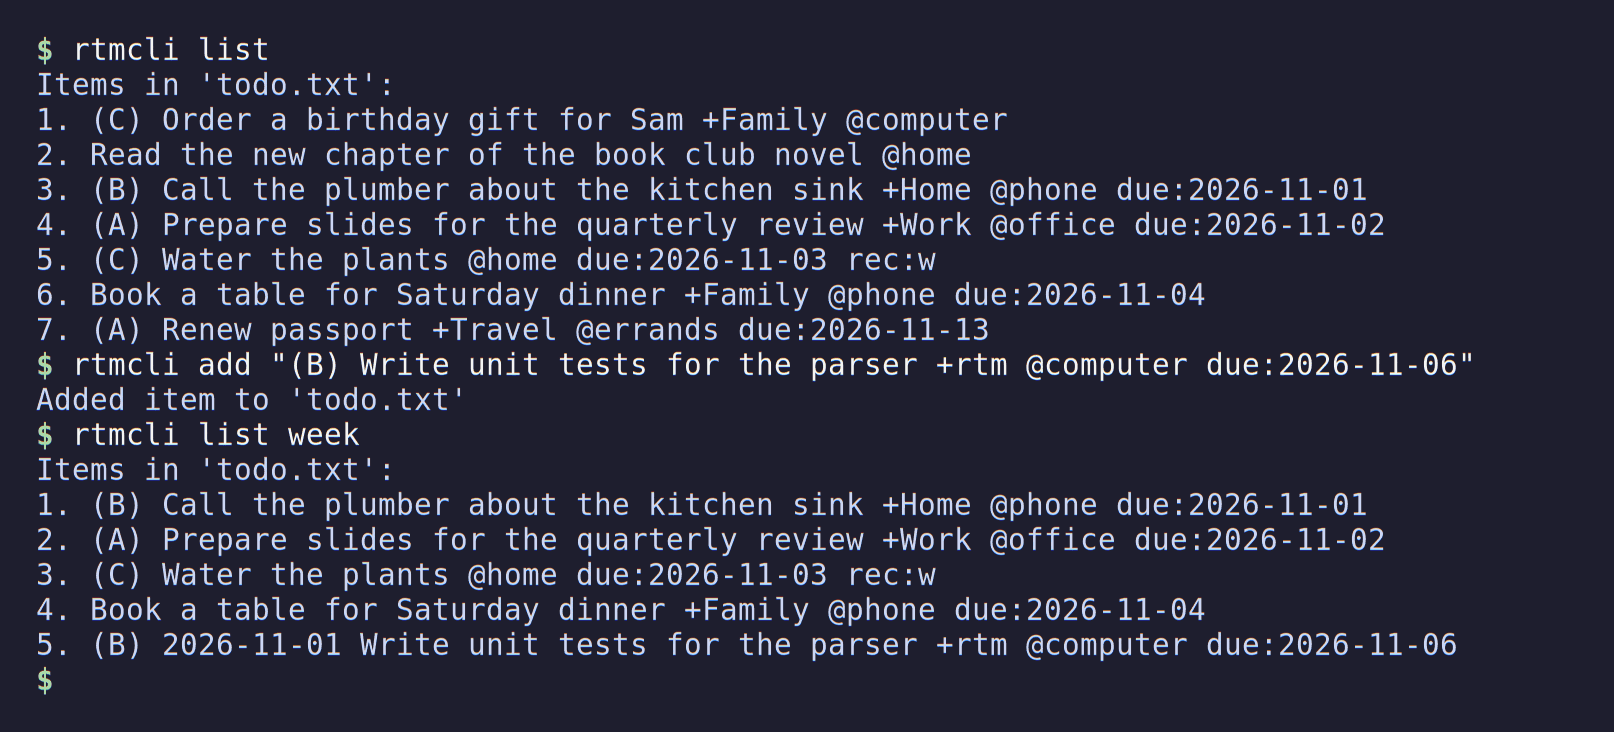
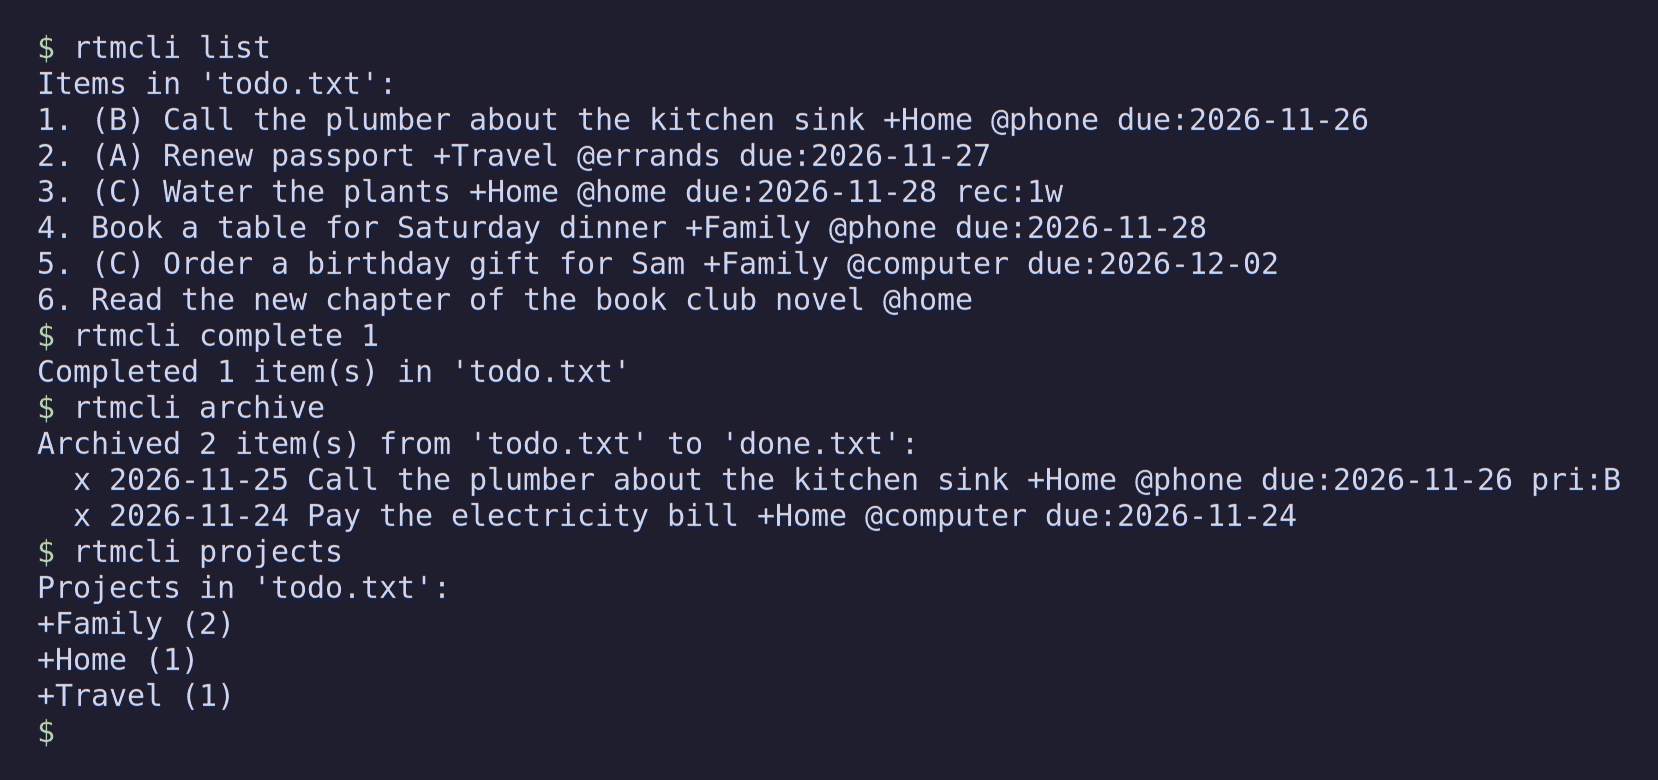
docs(site): website post for 26.3.0 -- RTM-176 (#242)
The website post for 26.3.0, whose merge publishes the announcement on X, and new screenshots of rtmapp and rtmcli for the website and the README.

Commits:

* docs(site): update the app screenshots for 26.3.0 -- RTM-176

  The rtmapp screenshots showed the app before tabs, the project and
  context sidebar, archiving and whole-line editing. New light and dark
  ones from the 26.3.0 build on sample data (the dark one with the edit
  dialog open), and a new rtmcli one rendered from real output as before,
  showing archiving; the page's size for it follows.

* docs(site): website post for 26.3.0 -- RTM-176

  The 26.3.0 post with the release's changelog section, its description
  and the X text the Announce workflow posts after the merge; the download
  links and releases.json follow it.

Changed region(s): [[0.0, 0.0301, 0.9913, 0.9617]]

diff --git a/site/templates/index.html b/site/templates/index.html
@@ -29,17 +29,17 @@
 <section class="screenshots" aria-label="Screenshots">
   <figure>
     <img src="{{ get_url(path='screenshot_gui.png') }}" width="900" height="650"
-         alt="The rtm desktop app in the light theme, showing a list of tasks with priorities and due dates">
+         alt="The rtm desktop app in the light theme, showing two todo.txt files in tabs, the projects and contexts sidebar, and a list of tasks with priorities and due dates">
     <figcaption>Desktop app, light theme</figcaption>
   </figure>
   <figure>
     <img src="{{ get_url(path='screenshot_gui_dark.png') }}" width="900" height="650"
-         alt="The rtm desktop app in the dark theme">
-    <figcaption>Desktop app, dark theme</figcaption>
+         alt="The rtm desktop app in the dark theme, editing a task's whole todo.txt line in the edit dialog">
+    <figcaption>Desktop app, dark theme: editing an item</figcaption>
   </figure>
   <figure class="wide">
-    <img src="{{ get_url(path='screenshot_cli.png') }}" width="807" height="366" loading="lazy"
-         alt="rtmcli listing tasks in a terminal">
+    <img src="{{ get_url(path='screenshot_cli.png') }}" width="829" height="390" loading="lazy"
+         alt="rtmcli listing, completing and archiving tasks in a terminal">
     <figcaption>Command line</figcaption>
   </figure>
 </section>

diff --git a/site/static/style.css b/site/static/style.css
@@ -147,7 +147,7 @@ main > section, main > article {
   grid-template-columns: repeat(2, minmax(0, 1fr));
   gap: 1.5rem;
 }
-.screenshots .wide { grid-column: 1 / -1; max-width: 807px; justify-self: center; }
+.screenshots .wide { grid-column: 1 / -1; max-width: 829px; justify-self: center; }
 .screenshots figure { margin: 0; }
 .screenshots img {
   display: block;

diff --git a/site/content/news/26.3.0.md b/site/content/news/26.3.0.md
@@ -1,0 +1,131 @@
++++
+title = "rtm 26.3.0"
+date = 2026-11-25T22:13:19Z
+description = "A minor release: archive done items, edit an item's whole todo.txt line in the desktop app, and saves that keep your files intact, plus every fix of 26.2.1."
+
+[extra.announce]
+x = "rtm 26.3.0 is out: archive done items from the desktop app, the command line or an AI assistant, edit an item's whole todo.txt line in the desktop app, and saves that never leave a file empty after a crash or a full disk."
++++
+
+rtm 26.3.0 archives done items, lets you edit an item's whole todo.txt line in the desktop app,
+and keeps your files safe when a save goes wrong. It also includes every fix of 26.2.1.
+
+- **Archive.** Done items move to the file's archive, `done.txt` next to `todo.txt` (or
+  `work.done.txt` next to `work.txt`): from the desktop app's menu or automatically once they
+  are a set number of days old, with `rtmcli archive`, or from an AI assistant through the MCP
+  server. In a synced folder, the todo file and its archive are committed together.
+- **Whole-line editing.** The desktop app's edit dialog holds the item's whole line, kept in step
+  with the priority, date, recurrence, project and context fields, so a `+project` or `@context`
+  can be typed anywhere in it. The list shows each line as written, with projects and contexts in
+  place. Done items open read-only.
+- **Desktop app.** Links in an item's text open in the browser, the start page offers New File
+  and Load File while no file is open, and the sidebar lists only the projects and contexts that
+  have active items. A click on one of two identical lines acts on that line, a failed save keeps
+  your changes, and a config file that cannot be read is never overwritten.
+- **Safer files.** The todo file and the app's config are replaced in one step, so a crash or a
+  full disk never leaves them empty. `rtmcli add` refuses a todo file it cannot read and text
+  with a line break. A symlinked todo file is refused, naming the file to open instead. Checking
+  a Pijul repository no longer adds an untracked todo file to it.
+- **Development.** CI caches the Rust and Nix builds, and the release tags are protected.
+
+<!-- The 26.3.0 section of CHANGELOG.md on releases/v26.3 (headings one level up). -->
+
+## Changes
+
+### Features
+
+- rtmapp: open links in item text -- RTM-193 (#131)
+- rtmapp: New File and Load File buttons on the empty page -- RTM-179 (#137)
+- todotxt: refuse an item whose threshold date is after its due date -- RTM-214 (#181)
+- todotxt: archive done items to the file's archive -- RTM-13 (#184)
+- rtmsync: commit several files in one commit -- RTM-228 (#186)
+- workspace: refuse symlinked todo files -- RTM-231 (#189)
+- rtmcli: archive done items to the file's archive -- RTM-25 (#191)
+- rtmapp: archive done items, automatically or from the menu -- RTM-22 (#193)
+- rtmcli: name an archived item by its description in the commit message -- RTM-232 (#194)
+- rtmmcp: archive done items from an MCP client -- RTM-229 (#199)
+- rtmmcp: check the Claude Code and Grok logins before the MCP eval -- RTM-235 (#202)
+- rtmapp: edit the whole todo.txt line and list items as written -- RTM-261 (#230)
+- rtmapp: hide projects and contexts without active items -- RTM-271 (#238)
+
+### Bug fixes
+
+- todotxt: calendar months and years in recurrence -- RTM-207 (#130)
+- todotxt: move the threshold date with a recurring item -- RTM-177 (#138)
+- todotxt: keep lines rtm cannot interpret -- RTM-203 (#141)
+- todotxt: keep the line's layout when writing it back -- RTM-204 (#144)
+- todotxt: read only YYYY-MM-DD words as dates -- RTM-205 (#147)
+- todotxt: write a recurrence with its count -- RTM-206 (#150)
+- todotxt: skip weekends in business-day recurrence -- RTM-208 (#153)
+- rtmapp: show and save Windows paths without the \\?\ prefix -- RTM-217 (#156)
+- rtmapp: start the app through Explorer after installing -- RTM-216 (#157)
+- rtmapp: wait for a commit queued with the last sync on exit -- RTM-220 (#166)
+- todotxt: recur items without a due date -- RTM-209 (#167)
+- todotxt: keep the final newline when saving -- RTM-210 (#170)
+- todotxt: read pri: as the priority only on done lines -- RTM-211 (#173)
+- todotxt: read the head only at the start of the line -- RTM-212 (#176)
+- rtmapp: decide future items by their threshold date -- RTM-222 (#185)
+- todotxt: date filters read the threshold date -- RTM-230 (#195)
+- site: keep older-line patches out of the latest release notice -- RTM-237 (#208)
+- todotxt: read a completed item back from its line -- RTM-236 (#207)
+- rtmcli: refuse to add to a todo file that cannot be read -- RTM-240 (#212)
+- rtmapp: hold the archive while the edit dialog is open -- RTM-241 (#213)
+- github: keep the PR description when reading it fails -- RTM-245 (#215)
+- todotxt: replace the todo file and the config atomically on save -- RTM-244 (#218)
+- rtmapp: keep the pending changes when a save fails -- RTM-242 (#214)
+- rtmapp: never overwrite a config file that cannot be read -- RTM-243 (#216)
+- rtmcli: refuse a line break in the text given to add -- RTM-246 (#219)
+- github: check the PR title the workflow patched -- RTM-248 (#220)
+- rtmapp: refuse edits whose line reads back as another item -- RTM-247 (#221)
+- github: label a patched PR title and skip the title fix on forks -- RTM-260 (#222)
+- rtmapp: act on the clicked one of two identical lines -- RTM-250 (#224)
+- rtmapp: wait for the next archive only on files that can archive -- RTM-249 (#223)
+- rtmapp: try a held write lock at most once per retry interval -- RTM-252 (#226)
+- rtmsync: tell untracked Pijul files without adding them -- RTM-263 (#229)
+- release: check every version target before writing any -- RTM-257 (#234)
+- rtmapp: show the calendar at chrono's date limits -- RTM-256 (#233)
+
+### Refactoring
+
+- workspace: keep only comments that give a reason -- RTM-223 (#179)
+- todotxt: stop resolving symlinks in archive_path() -- RTM-234 (#201)
+- rtmsync: share the repository check among the frontends -- RTM-253 (#227)
+- release: run each package check from one place -- RTM-255 (#232)
+- rtmapp: keep one file display name and one VCS label -- RTM-258 (#235)
+
+### Documentation
+
+- site: website post for 26.2.0 -- RTM-157 (#124)
+- workspace: track RTM issues in Jira -- RTM-191 (#125)
+- github: describe the Jira Automation flows that link pull requests -- RTM-221 (#192)
+- github: document only the flow that adds pull request links -- RTM-221 (#196)
+- site: website post for 26.1.1 -- RTM-200 (#206)
+- release: mark the Jira version released after each release -- RTM-238 (#209)
+- site: website post for 26.2.1 -- RTM-202 (#210)
+- github: describe the tag ruleset -- RTM-262 (#228)
+- nix: remove the Cachix instructions for Nix users -- RTM-272 (#239)
+
+### Build
+
+- workspace: update the dependencies for 26.3.0 -- RTM-239 (#217)
+
+### CI
+
+- github: fall back to a mirror outside ubuntu.com for apt -- RTM-213 (#132)
+- github: link each pull request description to its Jira issue -- RTM-219 (#158)
+- github: update claude-code-action and the review plugin pin -- RTM-239 (#211)
+- release: give the write token only to the version and publish jobs -- RTM-251 (#225)
+- github: cache Cargo build output in the Rust workflow -- RTM-254 (#231)
+- nix: cache the Nix builds -- RTM-264 (#236)
+- nix: build and test the Nix packages without LTO in CI -- RTM-270 (#237)
+
+### Tests
+
+- todotxt: specification test suite -- RTM-196 (#126)
+- rtmapp: stop the exit tests assuming git finishes in time -- RTM-218 (#163)
+- rtmapp: keep the re-read after a completion for pri: tags -- RTM-225 (#203)
+
+### Other
+
+- workspace: remove the leftover references to the former Tauri app -- RTM-224 (#187)
+- workspace: remove the stale .idea files -- RTM-233 (#200)

diff --git a/README.md b/README.md
@@ -32,7 +32,7 @@ What works today:
 
 Here are screenshots of the GUI, in the light and the dark theme:
 
-<img src="screenshot_gui.png" alt="rtmapp, light theme" title="RTM GUI, light theme" width="49%"> <img src="screenshot_gui_dark.png" alt="rtmapp, dark theme" title="RTM GUI, dark theme" width="49%">
+<img src="screenshot_gui.png" alt="rtmapp, light theme, showing two files in tabs and the projects and contexts sidebar" title="RTM GUI, light theme" width="49%"> <img src="screenshot_gui_dark.png" alt="rtmapp, dark theme, editing an item's whole line in the edit dialog" title="RTM GUI, dark theme, edit dialog" width="49%">
 
 and of the CLI:
 
